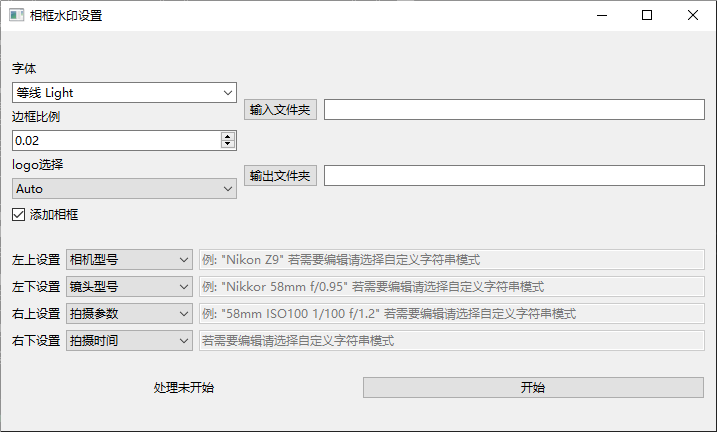
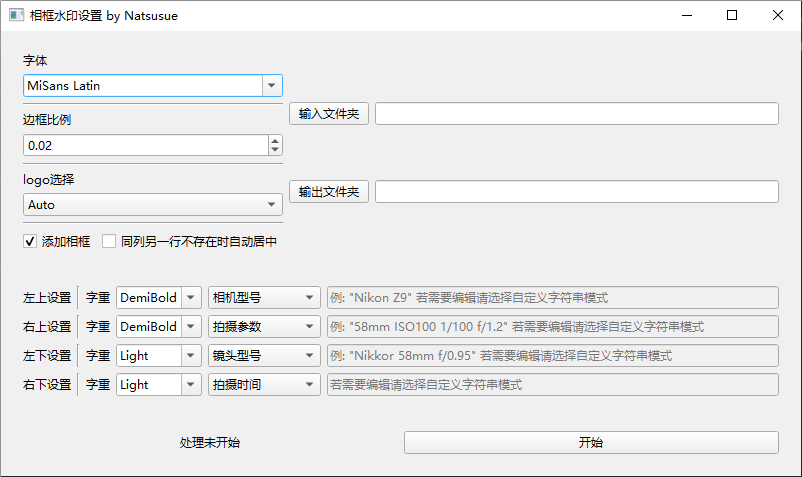
更新readme

diff --git a/README.md b/README.md
@@ -5,28 +5,28 @@
 ## GUI参考
 ![](doc/gui.png)
 
-- 字体选择:  选择使用的字体，默认选择包内自带的```执行程序路径/font/MiSans Latin*```字体。~~对的，就是雷军字体~~
-- 边框比例： 原始图像 * 边框比例 = 边框像素数。此值会作为计算内部边距的基准
-- logo选择： 默认加载```执行程序路径/logos```文件夹内的所有图片, Auto时自动匹配。若想自定义logo, 请在logos文件夹内放入命名为```相机厂商.jpg```的文件
-- 输入输出文件夹： 不解释了，输出文件夹不存在会尝试自动创建
-- 添加相框： 左上右三边是否加上白边的相框
-- 文字设置： 下边框的四角分别写什么, 除图上四种以外，还可选择无或自定义字符串
+* 字体选择:  选择使用的字体，默认选择包内自带的```执行程序路径/font/MiSans Latin*```字体。~~对的，就是雷军字体~~
+* 边框比例： 原始图像 * 边框比例 = 边框像素数。此值会作为计算内部边距的基准
+* logo选择： 默认加载```执行程序路径/logos```文件夹内的所有图片, Auto时自动匹配。若想自定义logo, 请在logos文件夹内放入命名为```相机厂商.jpg```的文件 ```logo匹配规则: 忽略大小写的比较 exif.Make 与 logo文件名```
+* 输入输出文件夹： 不解释了，输出文件夹不存在会尝试自动创建
+* 添加相框： 左上右三边是否加上白边的相框
+* 自动居中： 某侧只有某一个文字时，保持位置还是自动居中。(如左上选择无，左下正常，勾选后左下的文字将会自动居中，不然保持原位置)
+* 文字设置
+    * 字重: 文字粗细, 超过Black(900) 可以自行填写数字
+    * 类型选择：下边框的四角分别写什么, 除图上四种以外，还可选择无或自定义字符串
 
 ## 默认参数的效果
 ![](doc/default.png)
 
 ## 计划
 - 更多的自定义功能
+- 更多的样式或支持自定义样式
 - 更好看的ui(如果有人能来帮我做界面才可能会有，我实在是不会设计)
-- 跨平台未经测试
+- 更好的跨平台支持
 
-## 细节
-
-1. logo选择为Auto时, 匹配规则为 ```忽略大小写的比较 exif.Make 与 logo文件名```
-2. 
 
 ## 依赖与许可证
-本项目使用[Apache-2.0 license](LICENSE)
+本项目使用Apache许可[Apache-2.0 license](LICENSE)
 
 本项目引用了[mayanklahiri/easyexif](https://github.com/mayanklahiri/easyexif)项目作为exif解析模块。请参阅其[license](https://github.com/mayanklahiri/easyexif/blob/master/LICENSE)
 
